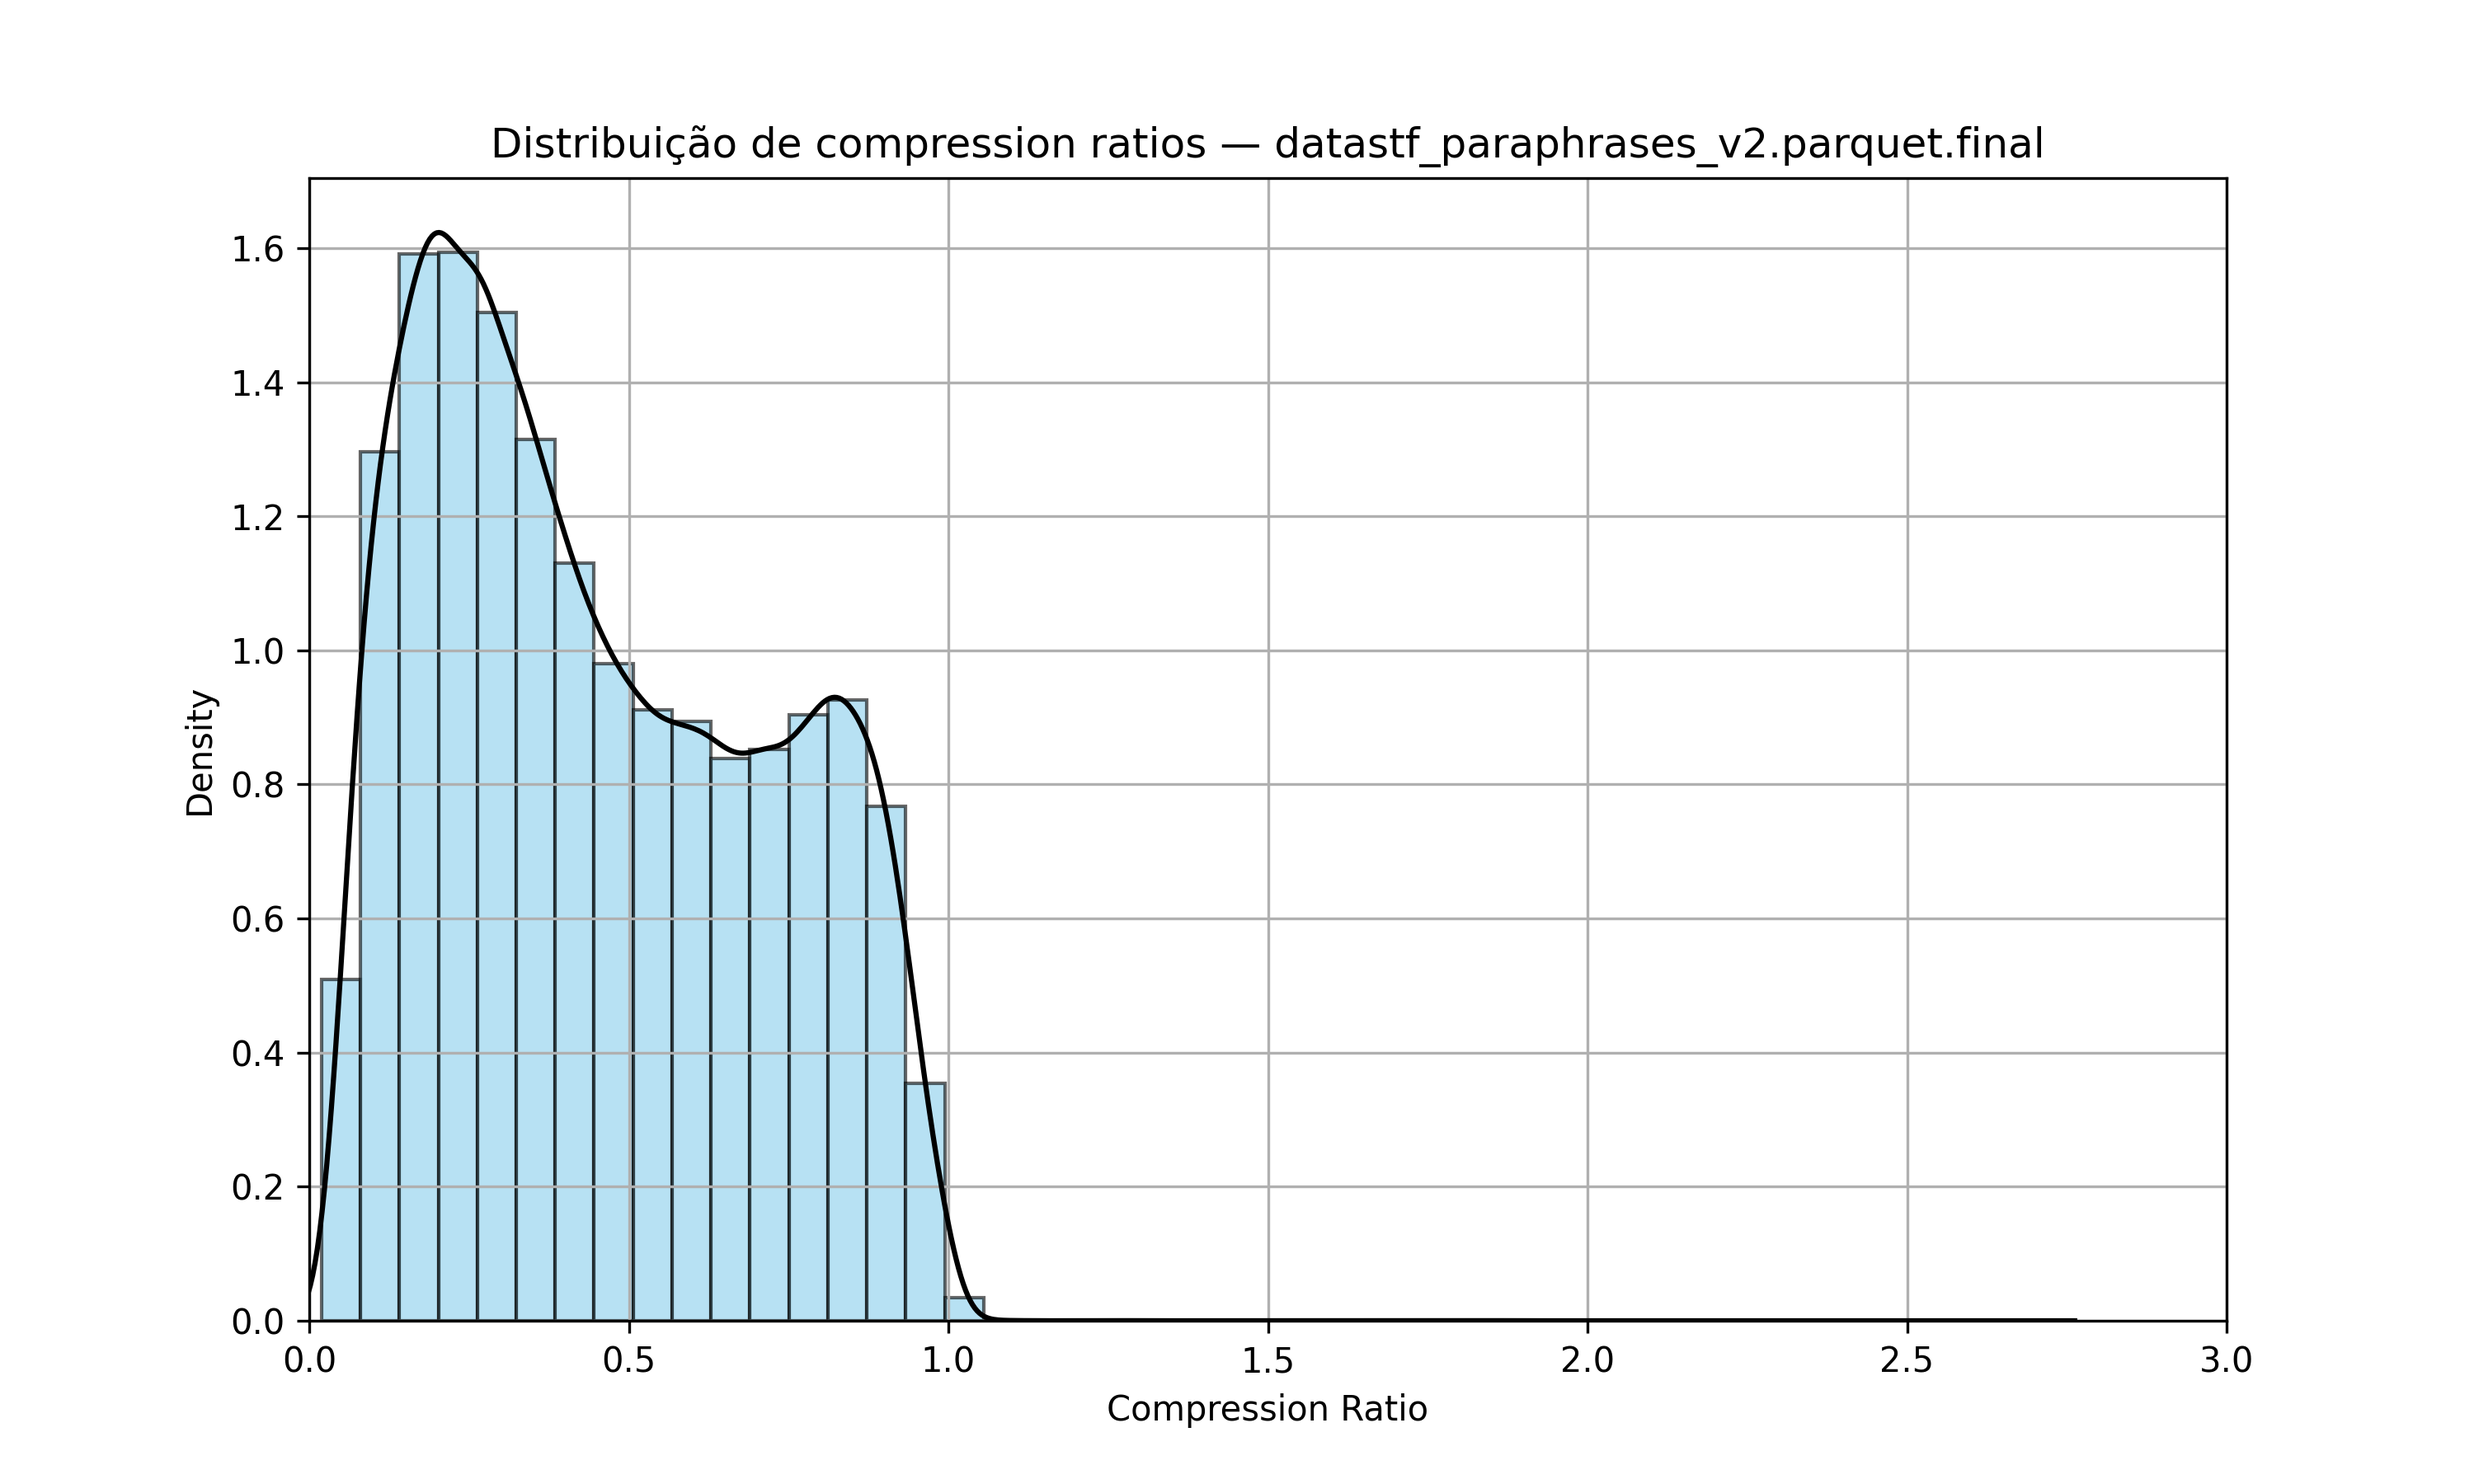
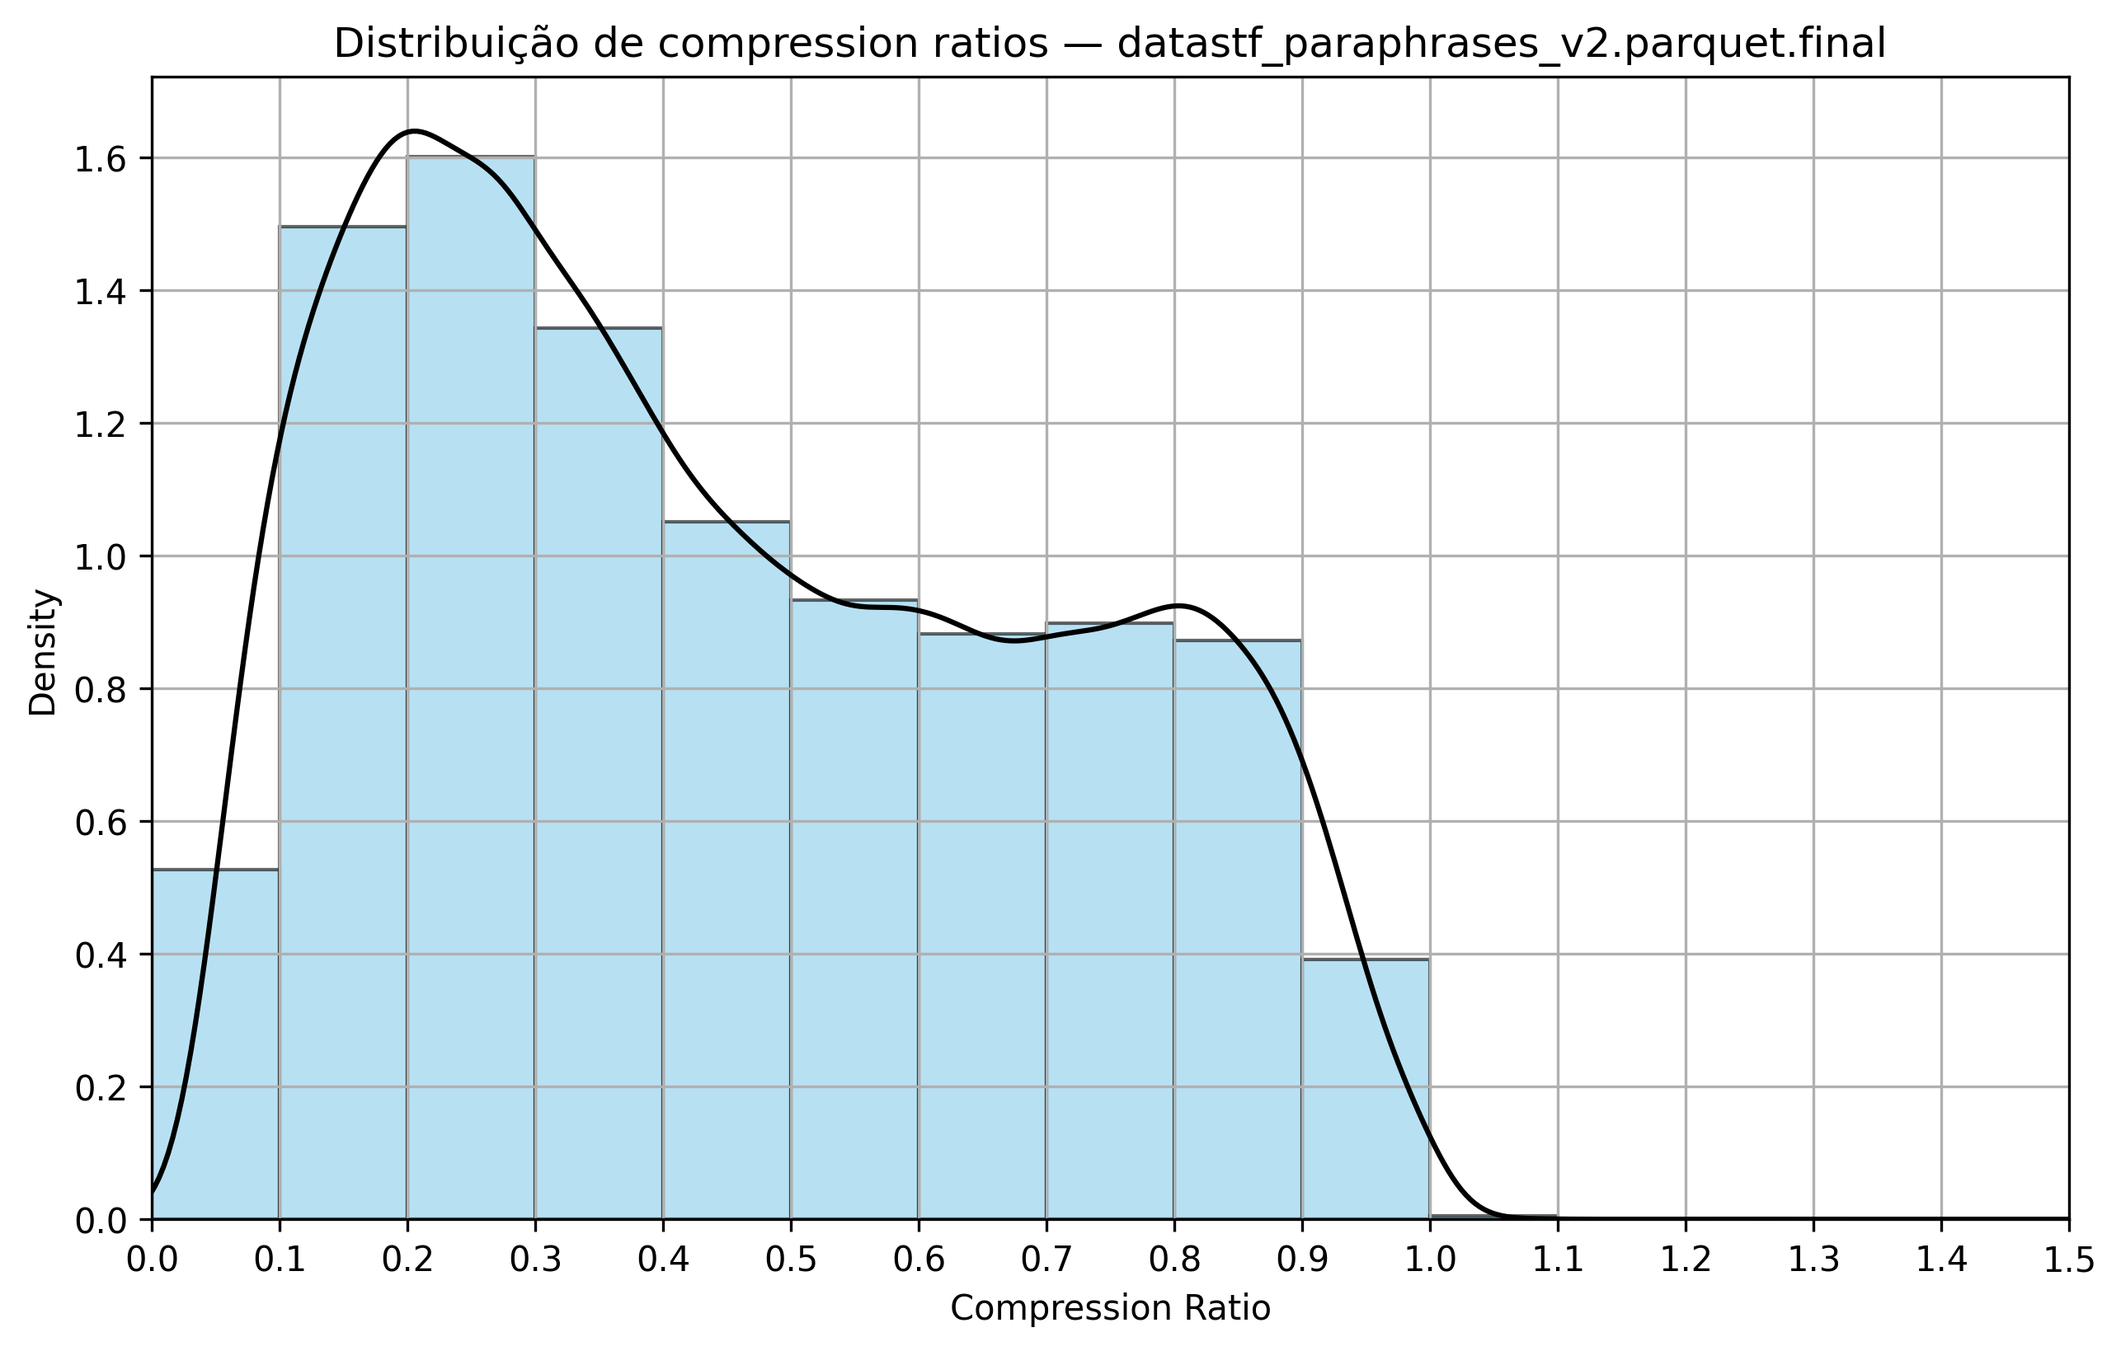
Ajustes

diff --git a/src/metricas/compression_rate_compilado.py b/src/metricas/compression_rate_compilado.py
@@ -1,0 +1,62 @@
+import pandas as pd
+import glob
+import os
+import matplotlib.pyplot as plt
+import numpy as np
+from src.metricas.utils import *
+
+pasta = "/home/camila/legal-doc-simplification-data/datasets"
+arquivos = glob.glob(os.path.join(pasta, "*.parquet.final"))
+
+if not arquivos:
+    raise FileNotFoundError(f"Nenhum arquivo .parquet.final encontrado em {pasta}")
+
+saida = "contagem/compression_rate"
+os.makedirs(saida, exist_ok=True)
+
+# Lista para armazenar todos os ratios
+todos_ratios = []
+
+for arquivo in arquivos:
+    nome = os.path.basename(arquivo)
+    print(f"Lendo {nome}...")
+
+    df = pd.read_parquet(arquivo)
+
+    if not all(col in df.columns for col in ["original_text", "paraphrase"]):
+        print(f" Pulando {nome} — colunas não encontradas.")
+        continue
+
+    # Calcula compression ratio
+    ratios = df.apply(
+        lambda row: contar_caracteres(row["paraphrase"]) / contar_caracteres(row["original_text"])
+        if contar_caracteres(row["original_text"]) > 0 else 0,
+        axis=1
+    )
+
+    todos_ratios.extend(ratios.tolist())  # adiciona ao dataset único
+
+# Converte para Series do pandas
+todos_ratios = pd.Series(todos_ratios)
+print(f"Total de ratios no dataset combinado: {len(todos_ratios)}")
+
+# Limitar o gráfico a 1.5 e criar faixas de 0.1
+limites = np.arange(0, 1.5 + 0.1, 0.1)
+print(f"Número de faixas: {len(limites)-1}")
+
+plt.figure(figsize=(12, 7))
+plt.hist(todos_ratios, bins=limites, color='skyblue', edgecolor='black', alpha=0.6, density=True)
+todos_ratios.plot(kind='kde', color='black')  # KDE em preto
+
+plt.xlim(0, 1.5)
+plt.xticks(limites)
+
+plt.xlabel("Compression Ratio")
+plt.ylabel("Density")
+plt.title("Distribuição de compression ratios — Todos os arquivos combinados")
+plt.grid(True)
+
+nome_figura = os.path.join(saida, "compression_ratio_combined_all_files.png")
+plt.savefig(nome_figura, dpi=300, bbox_inches='tight')
+plt.close()
+print(f"Gráfico combinado de todos os arquivos salvo em {nome_figura}")

diff --git a/src/metricas/compression_rate_compilado_separado.py b/src/metricas/compression_rate_compilado_separado.py
@@ -1,0 +1,63 @@
+import pandas as pd
+import glob
+import os
+import matplotlib.pyplot as plt
+import numpy as np
+from src.metricas.utils import *
+
+# Pasta dos arquivos
+pasta = "/home/camila/legal-doc-simplification-data/datasets"
+arquivos = glob.glob(os.path.join(pasta, "*.parquet.final"))
+
+if not arquivos:
+    raise FileNotFoundError(f"Nenhum arquivo .parquet.final encontrado em {pasta}")
+
+# Pasta de saída
+saida = "contagem/compression_rate"
+os.makedirs(saida, exist_ok=True)
+
+# Define faixas fixas de 0.1 até 1.5
+limites = np.arange(0, 1.5 + 0.1, 0.1)
+print(f"Número de faixas: {len(limites)-1}")
+
+# Inicializa figura compilada
+plt.figure(figsize=(12, 8))
+
+# Cores diferentes para cada arquivo
+colors = plt.cm.tab20.colors  # até 20 cores diferentes
+color_idx = 0
+
+for arquivo in arquivos:
+    nome = os.path.basename(arquivo)
+    df = pd.read_parquet(arquivo)
+
+    if not all(col in df.columns for col in ["original_text", "paraphrase"]):
+        print(f" Pulando {nome} — colunas não encontradas.")
+        continue
+
+    # Calcula compression ratio
+    ratios = df.apply(
+        lambda row: contar_caracteres(row["paraphrase"]) / contar_caracteres(row["original_text"])
+        if contar_caracteres(row["original_text"]) > 0 else 0,
+        axis=1
+    )
+
+    # Histogramas normalizados (density=True)
+    plt.hist(ratios, bins=limites, alpha=0.5, density=True,
+             color=colors[color_idx % len(colors)], label=nome)
+
+    color_idx += 1
+
+plt.xlim(0, 1.5)
+plt.xticks(limites)
+plt.xlabel("Compression Ratio")
+plt.ylabel("Density")
+plt.title("Distribuição de compression ratios — Todos os arquivos")
+plt.grid(True)
+plt.legend(fontsize=8, loc='upper right')
+
+# Salvar figura compilada
+nome_figura = os.path.join(saida, "compression_ratio_all_files.png")
+plt.savefig(nome_figura, dpi=300, bbox_inches='tight')
+plt.close()
+print(f"Gráfico compilado salvo em {nome_figura}")

diff --git a/src/metricas/compression_rate.py b/src/metricas/compression_rate.py
@@ -2,6 +2,7 @@ import pandas as pd
 import glob
 import os
 import matplotlib.pyplot as plt
+import numpy as np
 from src.metricas.utils import *
 
 pasta = "/home/camila/legal-doc-simplification-data/datasets"
@@ -23,17 +24,23 @@ for arquivo in arquivos:
         print(f" Pulando {nome} — colunas não encontradas.")
         continue
 
-    ratios = df.apply(lambda row: contar_caracteres(row["paraphrase"]) /
-                                  contar_caracteres(row["original_text"]), axis=1)
+    # Calcula compression ratio
+    ratios = df.apply(
+        lambda row: contar_caracteres(row["paraphrase"]) / contar_caracteres(row["original_text"]),
+        axis=1
+    )
+    print(ratios)
 
+    # Limitar o gráfico a 1.5 e criar faixas de 0.1
+    limites = np.arange(0, 1.5 + 0.1, 0.1)  # 0, 0.1, 0.2, ..., 1.5
+    print(f"Número de faixas: {len(limites)-1}")
 
     plt.figure(figsize=(10, 6))
-    plt.hist(ratios, bins=30, color='skyblue', edgecolor='black', alpha=0.6, density=True)
+    plt.hist(ratios, bins=limites, color='skyblue', edgecolor='black', alpha=0.6, density=True)
     ratios.plot(kind='kde', color='black')  # KDE em preto
 
-
-    plt.xlim(0, 3)
-    plt.xticks([x * 0.5 for x in range(7)])
+    plt.xlim(0, 1.5)
+    plt.xticks(limites)
 
     plt.xlabel("Compression Ratio")
     plt.ylabel("Density")
@@ -41,6 +48,6 @@ for arquivo in arquivos:
     plt.grid(True)
 
     nome_figura = os.path.join(saida, f"compression_ratio_combined_{nome}.png")
-    plt.savefig(nome_figura, dpi=300)
+    plt.savefig(nome_figura, dpi=300, bbox_inches='tight')
     plt.close()
     print(f"Gráfico combinado salvo em {nome_figura}")

diff --git a/src/metricas/utils.py b/src/metricas/utils.py
@@ -4,17 +4,27 @@ from src.utils import legal_sentence_split
 
 
 def contar_sentencas(texto):
-    if not isinstance(texto, str) or not texto.strip():
-        return 0
     return len(legal_sentence_split(texto))
+
+import re
 
 def contar_palavras(texto):
     if not isinstance(texto, str) or not texto.strip():
         return 0
-    return len(re.findall(r'\w+', texto))
+    # Substitui tudo que não seja letra (a-z, A-Z, letras com acento) ou hífen por espaço
+    texto_limpo = re.sub(r"[^A-Za-zÀ-ÿ-]+", " ", texto)
+    # Divide por espaços e conta palavras não vazias
+    palavras = [p for p in texto_limpo.split(" ") if p]
+    return len(palavras)
 
+
+#tirar espaços
 def contar_caracteres(texto):
     if not isinstance(texto, str):
         return 0
-    return len(texto.strip())
+    # Remove tudo que não for letra ou número
+    texto_limpo = re.sub(r'[^A-Za-z]', '', texto)
+    return len(texto_limpo)
 
+print(contar_sentencas("VISTOS, relatados e discutidos os recursos de reconsideração interpostos por Derli Antônio Donin, ex-prefeito de Toledo/PR, e pela empresa Castelo Comércio de Alimentos Ltda., contra o Acórdão 1.199/2014-TCU-Plenário, que rejeitou a tomada de contas especial realizada pelo FNDE. ACORDAM os Ministros do Tribunal de Contas da União: 9.1. Conhecer do recurso com base nos arts. 32, inciso I, e 33 da Lei 8.443/1992, mas negar-lhe provimento, mantendo o Acórdão 1.199/2014-TCU-Plenário; 9.2. Informar os recorrentes sobre a decisão completa."))
+print(contar_palavras("VISTOS, relatados e discutidos 1234 * 2222 Hello H-A"))

diff --git a/src/metricas/simplication_labels_v2.py b/src/metricas/simplication_labels_v2.py
@@ -1,0 +1,48 @@
+import pandas as pd
+import glob
+import os
+
+
+pasta = "/home/camila/legal-doc-simplification-data/datasets"
+arquivos = glob.glob(os.path.join(pasta, "*.parquet.final"))
+
+if not arquivos:
+    raise FileNotFoundError(f"Nenhum arquivo .parquet.final encontrado em {pasta}")
+
+print(f"{len(arquivos)} arquivos encontrados:")
+for a in arquivos:
+    print("  -", os.path.basename(a))
+
+
+for arquivo in arquivos:
+    nome_dataset = os.path.basename(arquivo)
+    print(f"\nLendo: {nome_dataset}")
+    df = pd.read_parquet(arquivo)
+
+    # Verifica se tem as colunas esperadas
+    if not all(col in df.columns for col in ["original_text", "paraphrase"]):
+        print(f"Pulando {nome_dataset} — colunas não encontradas.")
+        continue
+
+    # Amostra exatamente 50 linhas
+    if len(df) >= 20:
+        amostra = df.sample(n=20, random_state=42)
+    else:
+        amostra = df.sample(n=20, replace=True, random_state=42)
+
+
+    amostra["rotulo"] = ""
+
+
+    for idx, row in amostra.iterrows():
+        print(f"--- Amostra {idx} ---")
+        print("Original:")
+        print(row["original_text"])
+        print("Simplificado:")
+        print(row["paraphrase"])
+        print("\n")
+
+
+    saida = f"contagem/rotulos/amostras_50_{nome_dataset}.csv"
+    amostra.to_csv(saida, index=False)
+    print(f"CSV salvo para {nome_dataset}: {saida}")

diff --git a/src/metricas/average_sizes.py b/src/metricas/average_sizes.py
@@ -36,6 +36,12 @@ for arquivo in arquivos:
     df["palavras_destino"] = df["paraphrase"].apply(contar_palavras)
     df["caracteres_origem"] = df["original_text"].apply(contar_caracteres)
     df["caracteres_destino"] = df["paraphrase"].apply(contar_caracteres)
+    print(df["sentencas_origem"])
+    print(df["sentencas_destino"])
+    print(df["palavras_origem"])
+    print(df["palavras_destino"])
+    print(df["caracteres_origem"])
+    print(df["caracteres_destino"])
 
     # Calcula médias e desvios padrão
     medias = {
